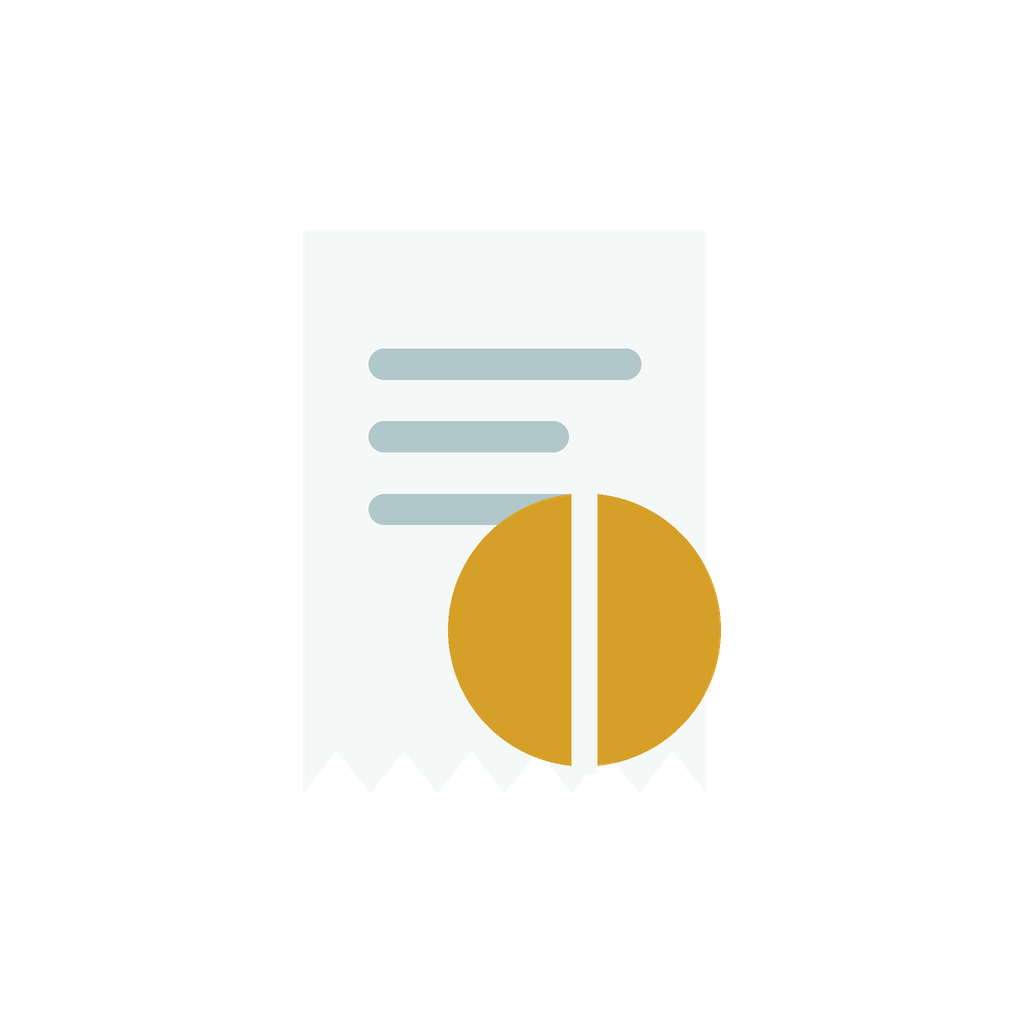
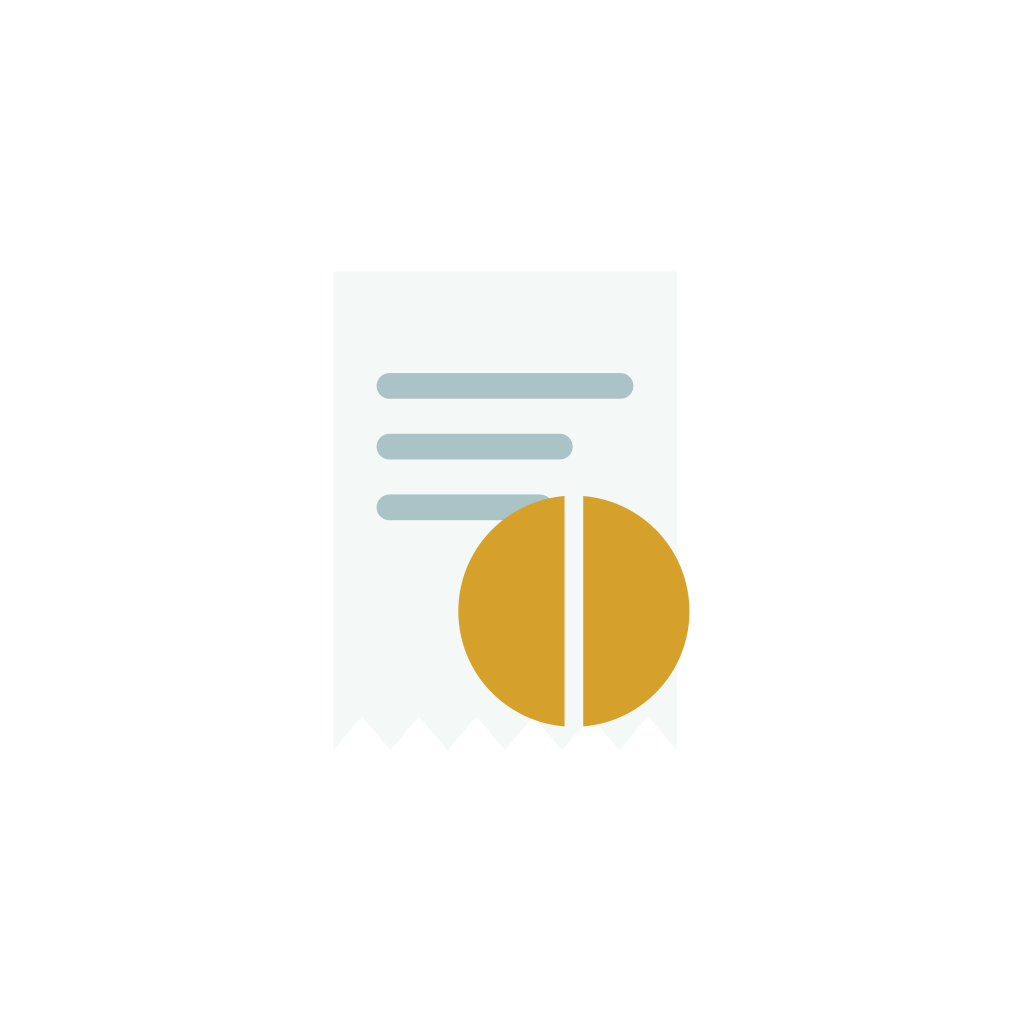
Icona ridisegnata in vettoriale: righe opache, moneta pulita, margini Android corretti
- scripts/icons.py genera assets/icon.svg e www/icons/icon.svg e da lì tutti i PNG
  (web, maskable, Android adattiva, iOS, schermate di avvio)
- righe dello scontrino opache: prima erano semi-trasparenti e nelle icone
  native e su iPhone diventavano petrolio scuro
- fessura della moneta senza la linguetta sulla seghettatura
- primo piano dell'icona adattiva Android dentro la zona sicura
- favicon SVG e cache del service worker aggiornata

Claude-Session: https://claude.ai/code/session_01LradJXWrH7z1ZMRwDTaaA8

Changed region(s): [[0.3438, 0.3125, 0.7188, 0.75]]

diff --git a/www/sw.js b/www/sw.js
@@ -1,6 +1,6 @@
 // Conti Chiari — funziona offline: tiene in cache i file dell'app
-const CACHE='conti-chiari-v31';
-const FILES=['./','index.html','i18n.js','sync.js','feedback.js','lib/secp256k1.js','lib/qrcode.js','lib/jsQR.js','manifest.webmanifest','icons/icon-192.png','icons/icon-512.png','icons/apple-touch-icon.png'];
+const CACHE='conti-chiari-v32';
+const FILES=['./','index.html','i18n.js','sync.js','feedback.js','lib/secp256k1.js','lib/qrcode.js','lib/jsQR.js','manifest.webmanifest','icons/icon.svg','icons/icon-192.png','icons/icon-512.png','icons/apple-touch-icon.png'];
 self.addEventListener('install',e=>{e.waitUntil(caches.open(CACHE).then(c=>c.addAll(FILES)).then(()=>self.skipWaiting()))});
 self.addEventListener('activate',e=>{e.waitUntil(caches.keys().then(k=>Promise.all(k.filter(x=>x!==CACHE).map(x=>caches.delete(x)))).then(()=>self.clients.claim()))});
 self.addEventListener('fetch',e=>{

diff --git a/www/index.html b/www/index.html
@@ -12,6 +12,7 @@
 <meta name="apple-mobile-web-app-status-bar-style" content="default">
 <meta name="apple-mobile-web-app-title" content="Conti Chiari">
 <link rel="manifest" href="manifest.webmanifest">
+<link rel="icon" href="icons/icon.svg" type="image/svg+xml">
 <link rel="icon" href="icons/icon-192.png" type="image/png">
 <link rel="apple-touch-icon" href="icons/apple-touch-icon.png">
 <script>

diff --git a/scripts/icons.py b/scripts/icons.py
@@ -1,0 +1,79 @@
+# Disegna l'icona di Conti Chiari in vettoriale e ne ricava tutte le immagini.
+#   pip install cairosvg pillow
+#   python3 scripts/icons.py
+# Scrive gli SVG sorgente (assets/icon.svg, www/icons/icon.svg) e i PNG per web, Android e iOS.
+# Dopo, per l'app nativa: npm run icons (usa i PNG in assets/).
+from io import BytesIO
+from pathlib import Path
+
+import cairosvg
+from PIL import Image
+
+ROOT = Path(__file__).resolve().parent.parent
+TEAL, TEAL_DARK = '#1f5f6b', '#0f1a1e'
+PAPER, LINE, GOLD = '#f4f8f7', '#a9c3c6', '#d6a12a'
+SPLASH_BG = {'splash.png': '#eef2f1', 'splash-dark.png': TEAL_DARK}
+
+# Disegno su una tela 1024×1024, centrato in (512, 512): scontrino con tre righe e moneta divisa a metà
+RECEIPT_L, RECEIPT_R, RECEIPT_T = 206, 794, 100
+TOOTH_TIP, TOOTH_VALLEY, TEETH = 920, 862, 6
+LINES = [(302, 698, 296), (302, 594, 400), (302, 560, 504)]  # x iniziale, x finale, y
+LINE_W = 44
+COIN_X, COIN_Y, COIN_R, GAP = 618, 682, 198, 16  # GAP: metà della fessura che divide la moneta
+EXTENT = 514  # distanza massima del disegno dal centro (gli angoli in alto dello scontrino)
+
+
+def glyph():
+    w = (RECEIPT_R - RECEIPT_L) / TEETH
+    teeth = ' '.join(f'L{RECEIPT_R - w * (i + .5):g},{TOOTH_VALLEY} L{RECEIPT_R - w * (i + 1):g},{TOOTH_TIP}' for i in range(TEETH))
+    receipt = f'<path fill="{PAPER}" d="M{RECEIPT_L},{RECEIPT_T} H{RECEIPT_R} V{TOOTH_TIP} {teeth} Z"/>'
+    lines = ''.join(f'<path d="M{a},{y} H{b}"/>' for a, b, y in LINES)
+    lines = f'<g stroke="{LINE}" stroke-width="{LINE_W}" stroke-linecap="round">{lines}</g>'
+    # due mezze monete separate: nella fessura si vede quello che c'è sotto (carta o sfondo)
+    dy = (COIN_R ** 2 - GAP ** 2) ** .5
+    top, bot = COIN_Y - dy, COIN_Y + dy
+    coin = (f'<path fill="{GOLD}" d="M{COIN_X - GAP},{top:.2f} A{COIN_R},{COIN_R} 0 0 0 {COIN_X - GAP},{bot:.2f} Z'
+            f' M{COIN_X + GAP},{top:.2f} A{COIN_R},{COIN_R} 0 0 1 {COIN_X + GAP},{bot:.2f} Z"/>')
+    return receipt + lines + coin
+
+
+def svg(radius=None, bg=TEAL, corner=0):
+    """radius: distanza massima dal centro a cui arriva il disegno (None = misura piena). bg=None: trasparente."""
+    s = 1 if radius is None else radius / EXTENT
+    back = '' if bg is None else f'<rect width="1024" height="1024" rx="{corner}" fill="{bg}"/>'
+    return (f'<svg xmlns="http://www.w3.org/2000/svg" viewBox="0 0 1024 1024">{back}'
+            f'<g transform="translate(512 512) scale({s:.4f}) translate(-512 -512)">{glyph()}</g></svg>\n')
+
+
+def png(src, size, path, rgb=False):
+    im = Image.open(BytesIO(cairosvg.svg2png(bytestring=src.encode(), output_width=size, output_height=size)))
+    (im.convert('RGB') if rgb else im.convert('RGBA')).save(path, optimize=True)
+
+
+def main():
+    a, w = ROOT / 'assets', ROOT / 'www' / 'icons'
+    full = svg()
+    (a / 'icon.svg').write_text(full)
+    (w / 'icon.svg').write_text(full)
+    # web (PWA): icona piena e versione "maskable" con il disegno nella zona sicura (cerchio di raggio 40%)
+    png(full, 192, w / 'icon-192.png')
+    png(full, 512, w / 'icon-512.png')
+    png(full, 1024, w / 'icon-1024.png', rgb=True)
+    png(full, 180, w / 'apple-touch-icon.png', rgb=True)
+    png(svg(radius=390), 512, w / 'maskable-512.png')
+    # Android/iOS (capacitor-assets): icona piena, primo piano e sfondo dell'icona adattiva.
+    # Android mostra solo i 72/108 centrali del livello e ritaglia a cerchio: zona sicura di raggio 66/108/2 ≈ 313
+    png(full, 1024, a / 'icon-only.png', rgb=True)
+    png(svg(radius=300, bg=None), 1024, a / 'icon-foreground.png')
+    png(f'<svg xmlns="http://www.w3.org/2000/svg" viewBox="0 0 1024 1024"><rect width="1024" height="1024" fill="{TEAL}"/></svg>',
+        1024, a / 'icon-background.png', rgb=True)
+    # schermate di avvio: icona arrotondata di 556 px al centro
+    logo = Image.open(BytesIO(cairosvg.svg2png(bytestring=svg(corner=225).encode(), output_width=556, output_height=556)))
+    for name, bg in SPLASH_BG.items():
+        im = Image.new('RGB', (2732, 2732), bg)
+        im.paste(logo, (1088, 1088), logo)
+        im.save(a / name, optimize=True)
+
+
+if __name__ == '__main__':
+    main()

diff --git a/README.md b/README.md
@@ -193,10 +193,11 @@ L'app è una singola pagina web (HTML, CSS e JavaScript, senza librerie esterne)
 www/                  l'app: index.html, i18n.js (traduzioni), sync.js (sincronizzazione cifrata),
                       feedback.js (suoni, vibrazione, voce e modalità vista),
                       lib/ (QR e firme digitali), manifest, service worker (offline), icone
-assets/               icone e schermata di avvio per Android e iOS
+assets/               icone e schermata di avvio per Android e iOS (generate da scripts/icons.py)
 capacitor.config.json configurazione dell'app nativa (id: it.contichiari.app)
 package.json          dipendenze e comandi per creare i progetti Android/iOS
 scripts/compat.mjs    conversione per i telefoni vecchi (usata durante la pubblicazione)
+scripts/icons.py      disegna l'icona in vettoriale (SVG) e ne ricava tutte le immagini PNG
 .github/workflows/    costruzione automatica di APK e sito
 GUIDA.md              guida passo passo all'installazione
 ```
